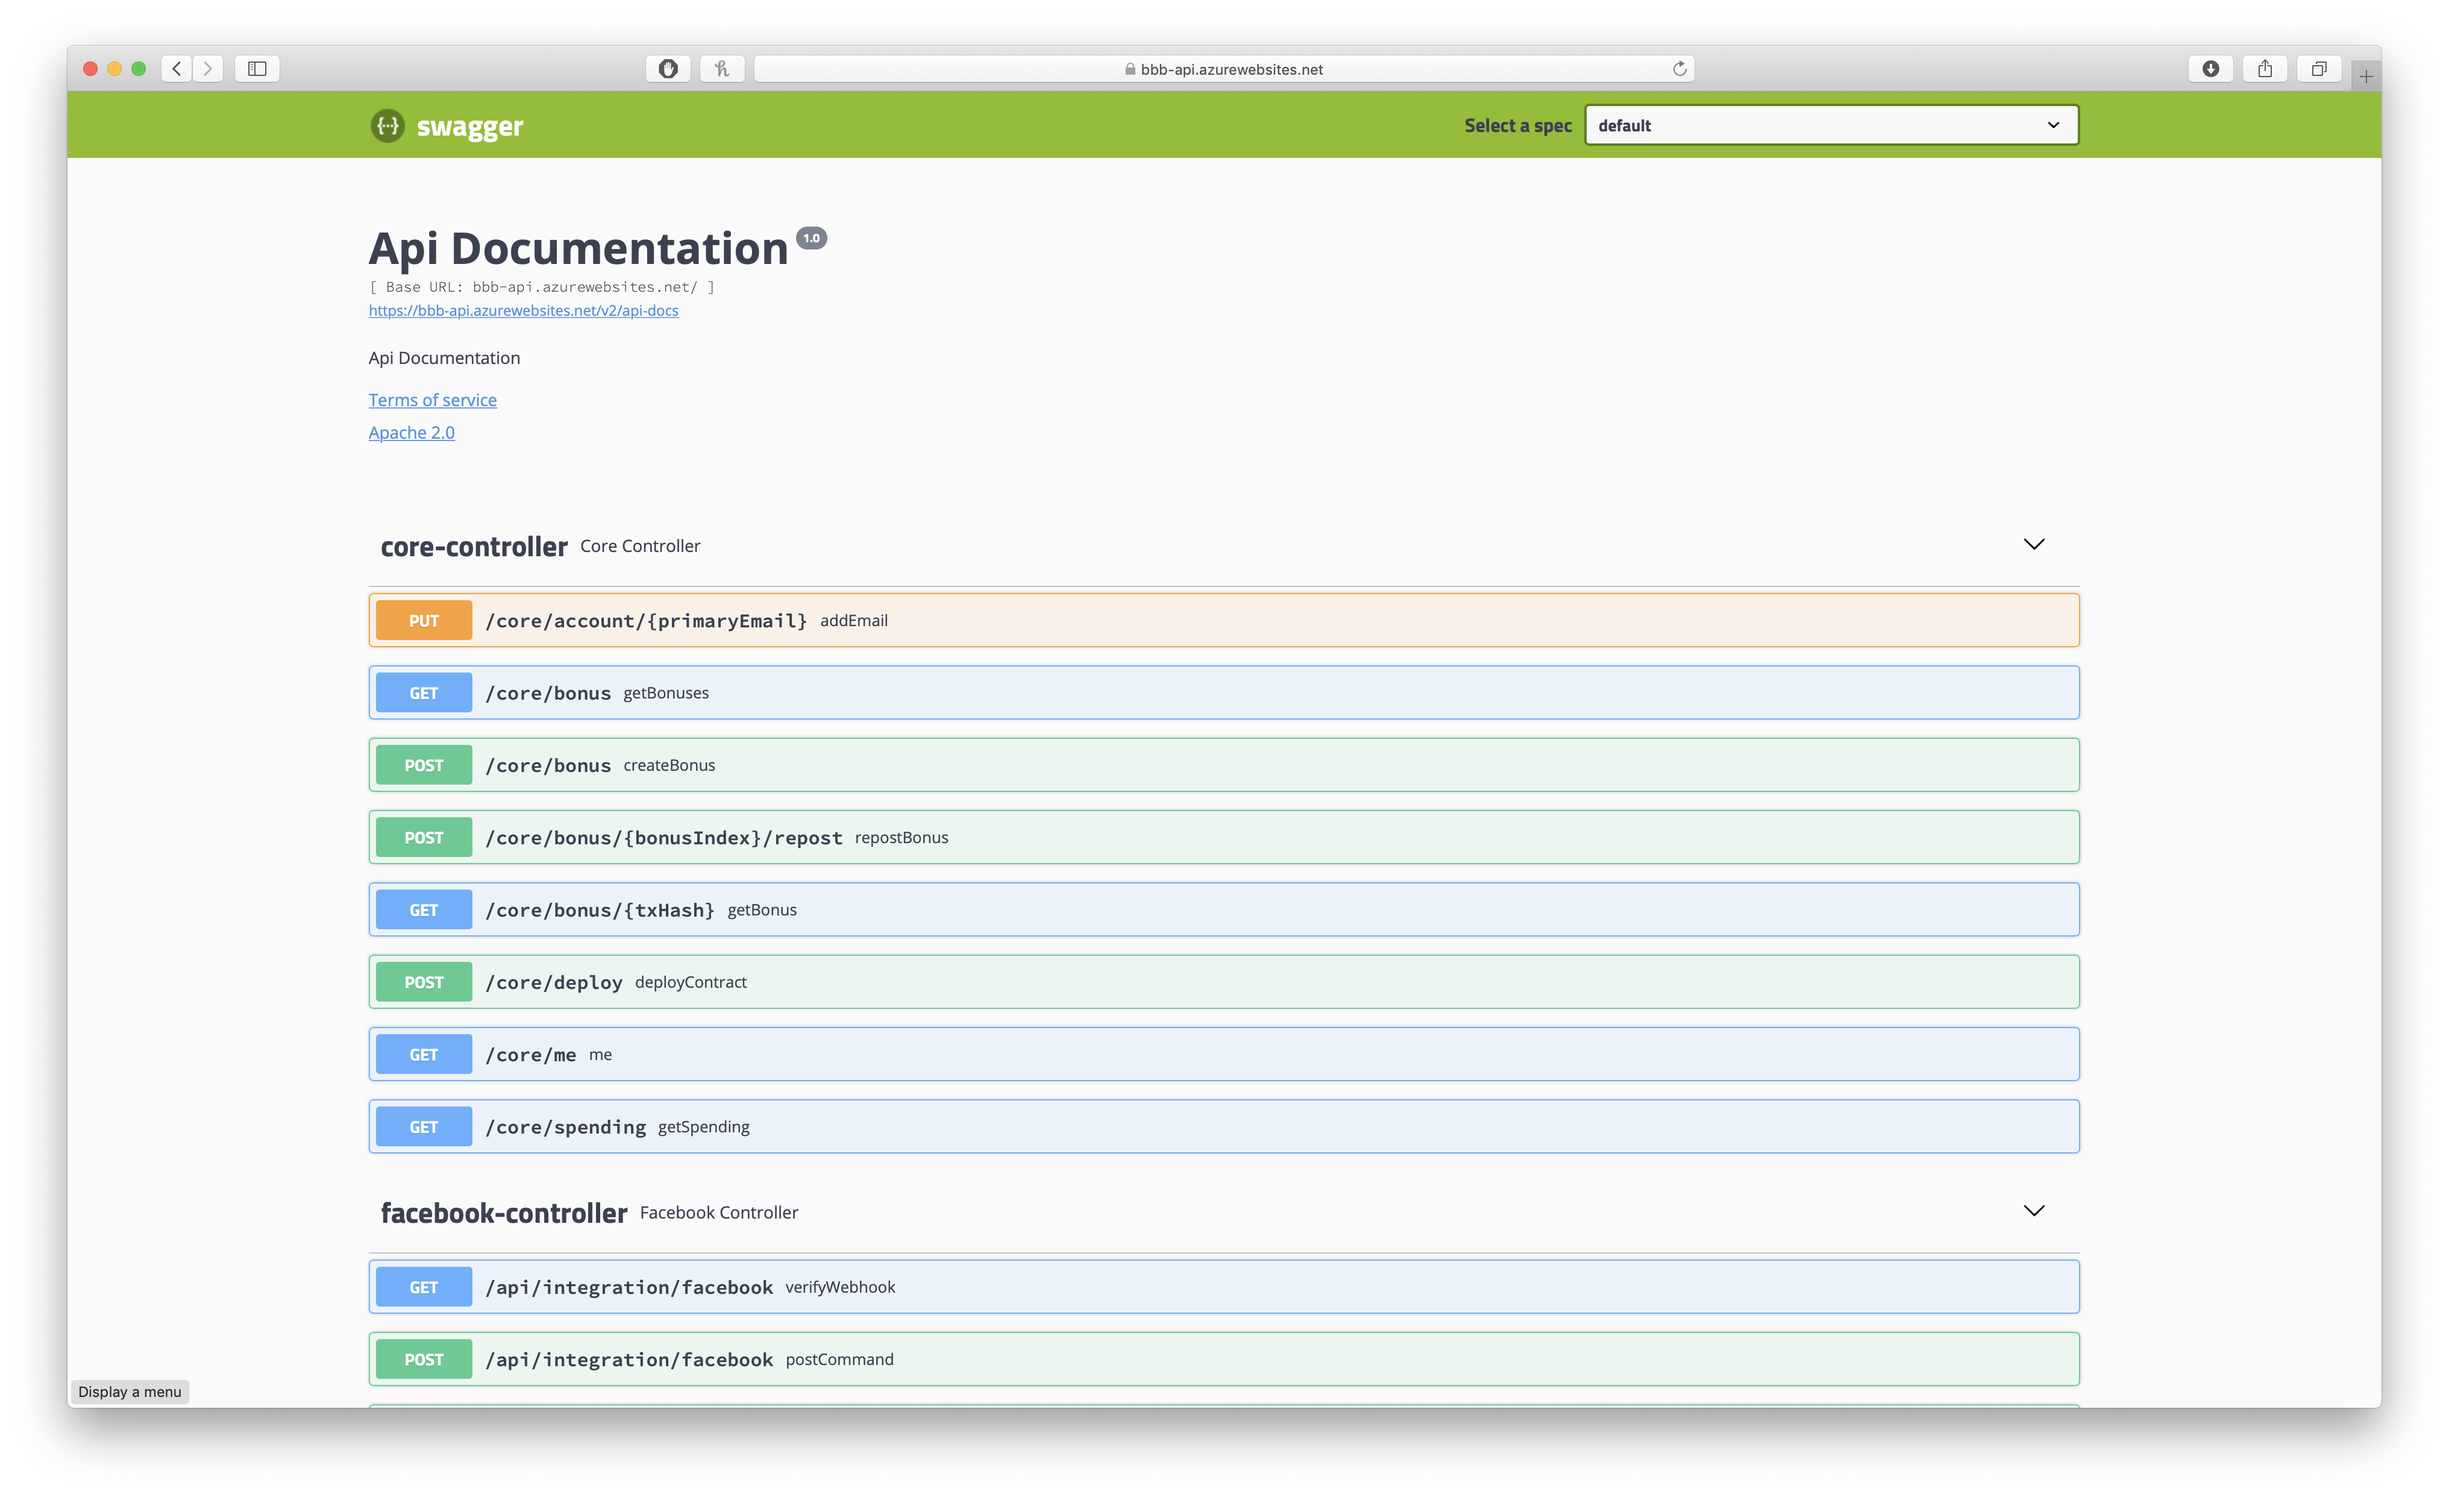
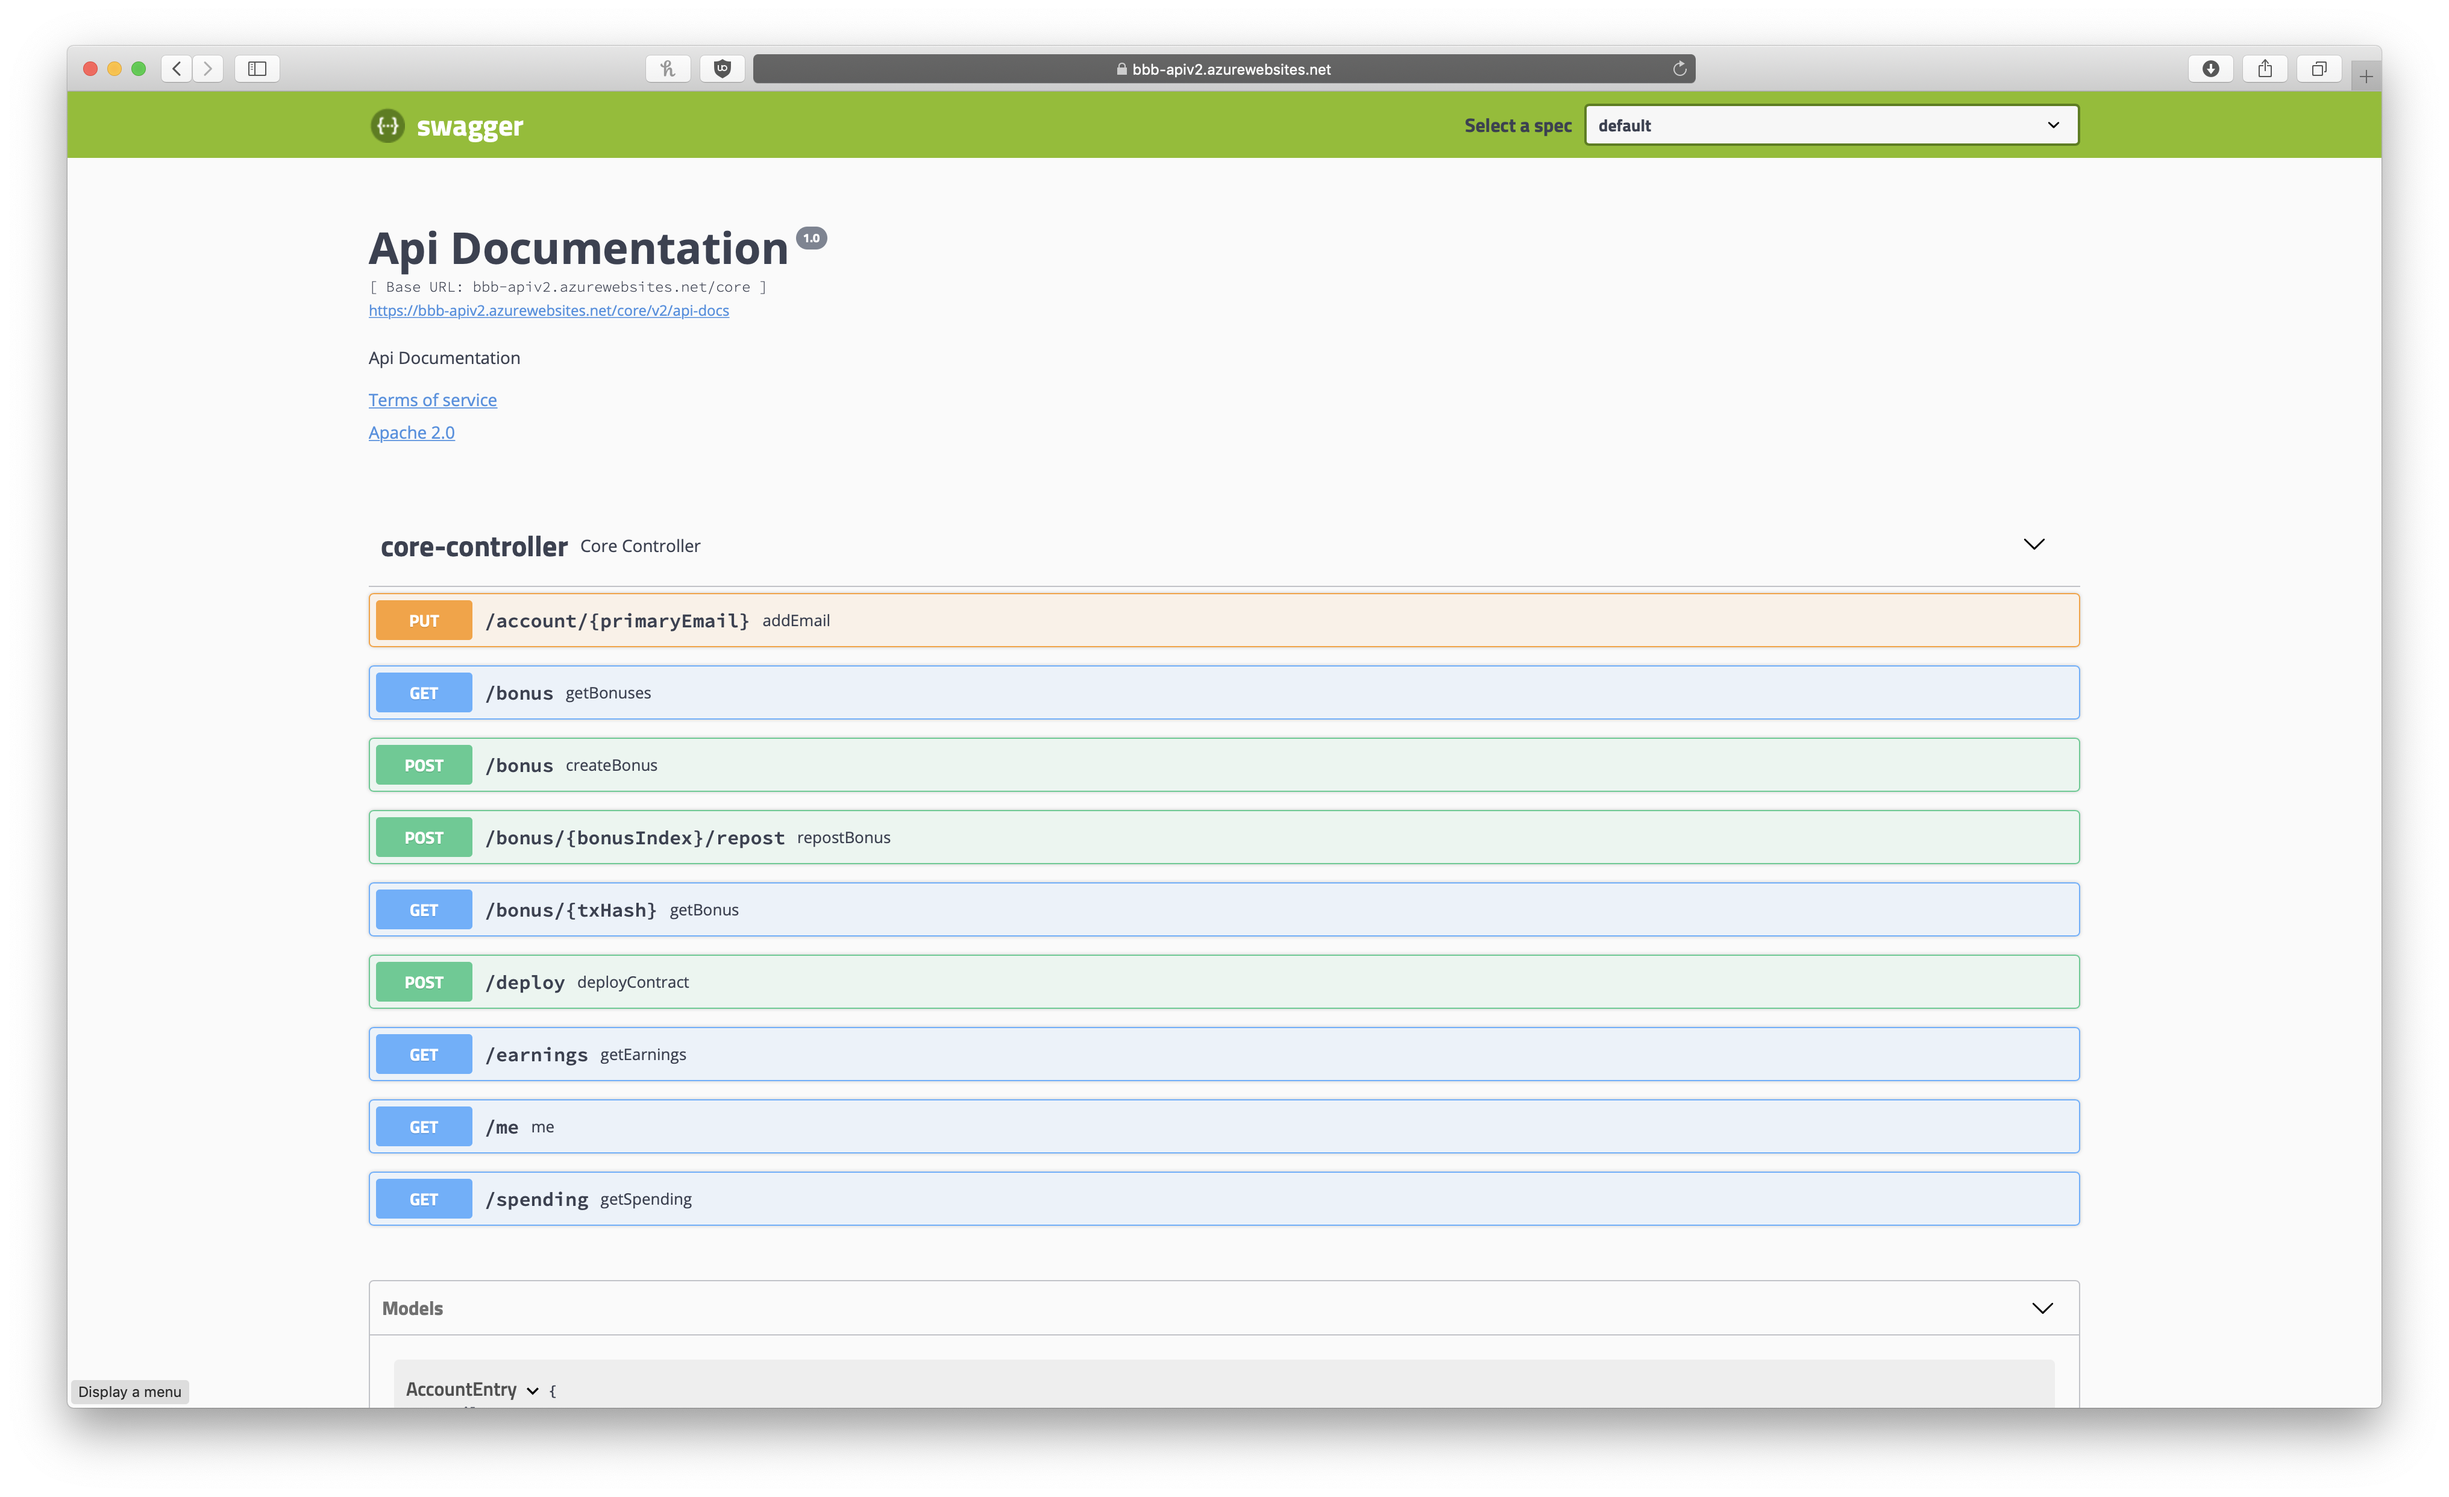
Updated swagger and info json

diff --git a/beheer/README.md b/beheer/README.md
@@ -93,7 +93,7 @@ Als dit gelukt is, is de release succesvol afgerond en staat er een nieuwe versi
 
 ![Swagger IMG](./img/swagger.png)
 
-Om de API inzichtelijk te maken naar andere ontwikkelaars toe heb ik gekozen voor Swagger. Dit is een user interface met informatie over de API's, welke parameters, waar ze staan en wat de modellen zijn die ze returnen. Je kan ook in plaats alles proberen (in de browser). Hier zie je de volgende controllers: `WebController`, `CoreController`, `SlackController` en de `FacebookController`.
+Om de API inzichtelijk te maken naar andere ontwikkelaars toe heb ik gekozen voor Swagger. Dit is een user interface met informatie over de API's, welke parameters, waar ze staan en wat de modellen zijn die ze returnen. Je kan ook in plaats alles proberen (in de browser). Je kan de huidige versie zien van de core swagger [hier](https://bbb-apiv2.azurewebsites.net/core/swagger-ui.html#/core-controller).
 
 ## Actuator
 
@@ -104,11 +104,11 @@ Het info endpoint bevat informatie over de build. Hieronder zie je een voorbeeld
 ```json
 {
   "build": {
-    "version": "1.0.0.43d438a",
+    "version": "1.0.0.cc017df",
     "artifact": "core",
     "name": "core",
     "group": "com.infosupport",
-    "time": "2018-12-27T09:34:56.476Z"
+    "time": "2019-01-05T15:06:16.870Z"
   }
 }
 ```
